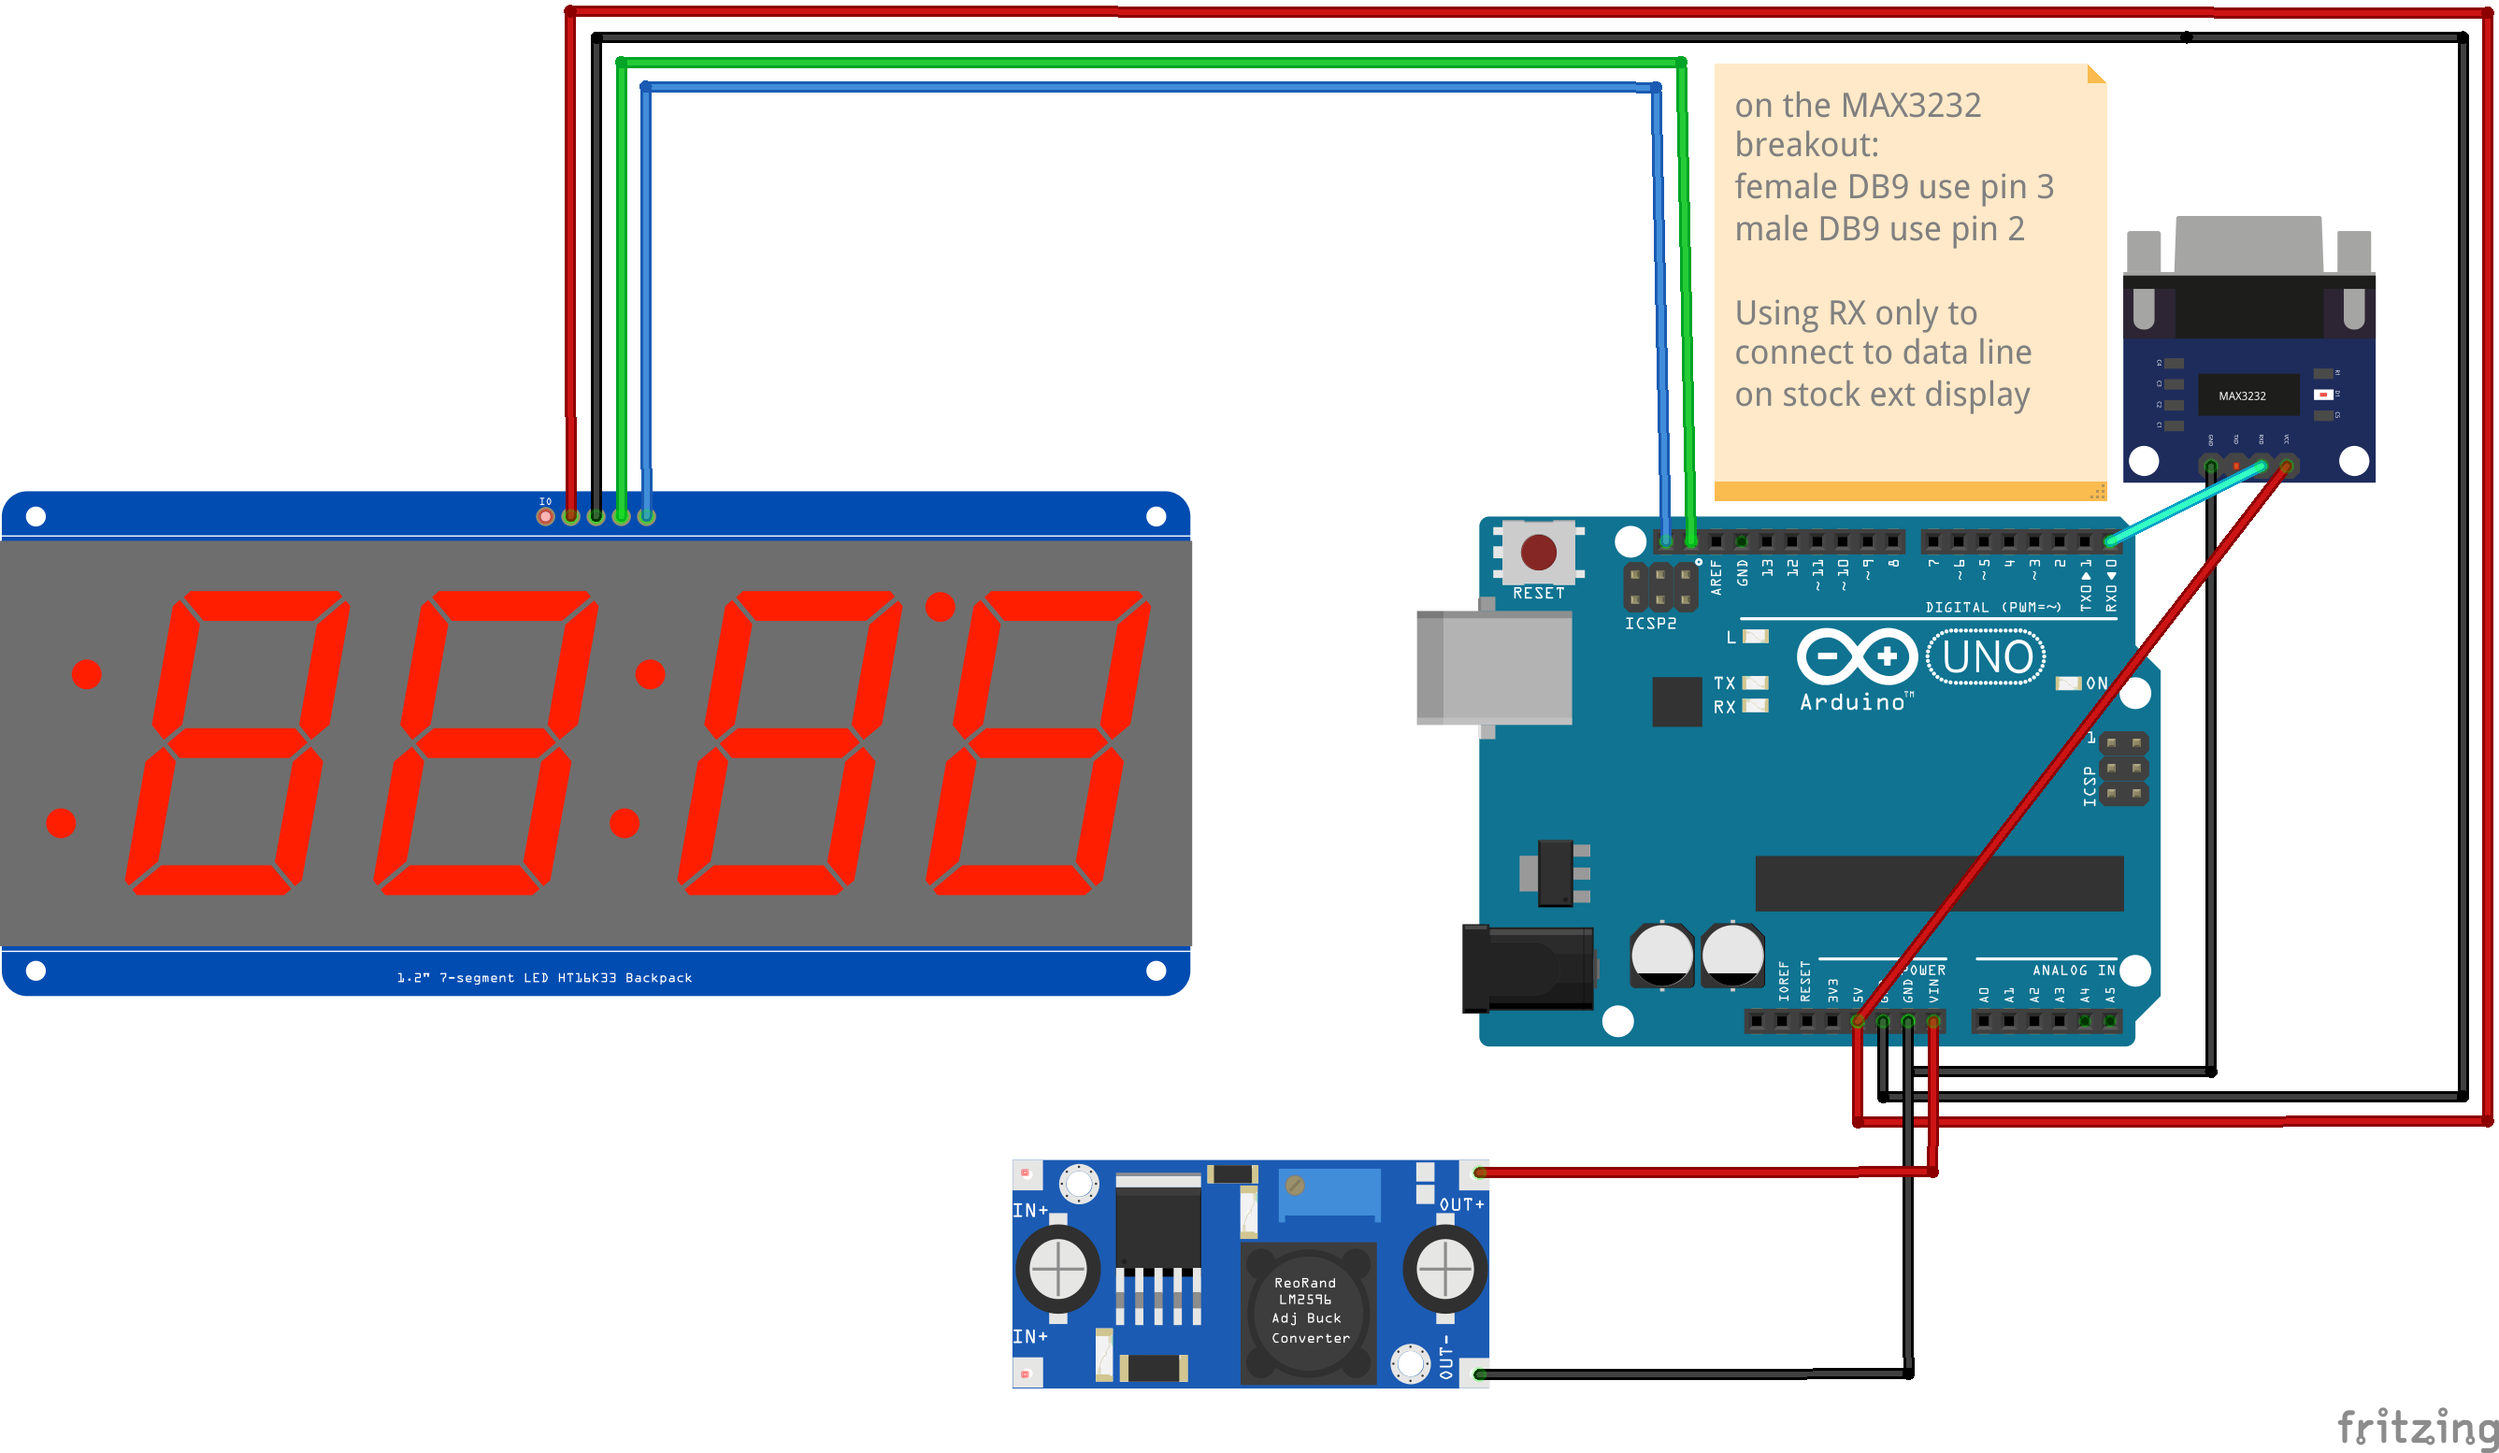
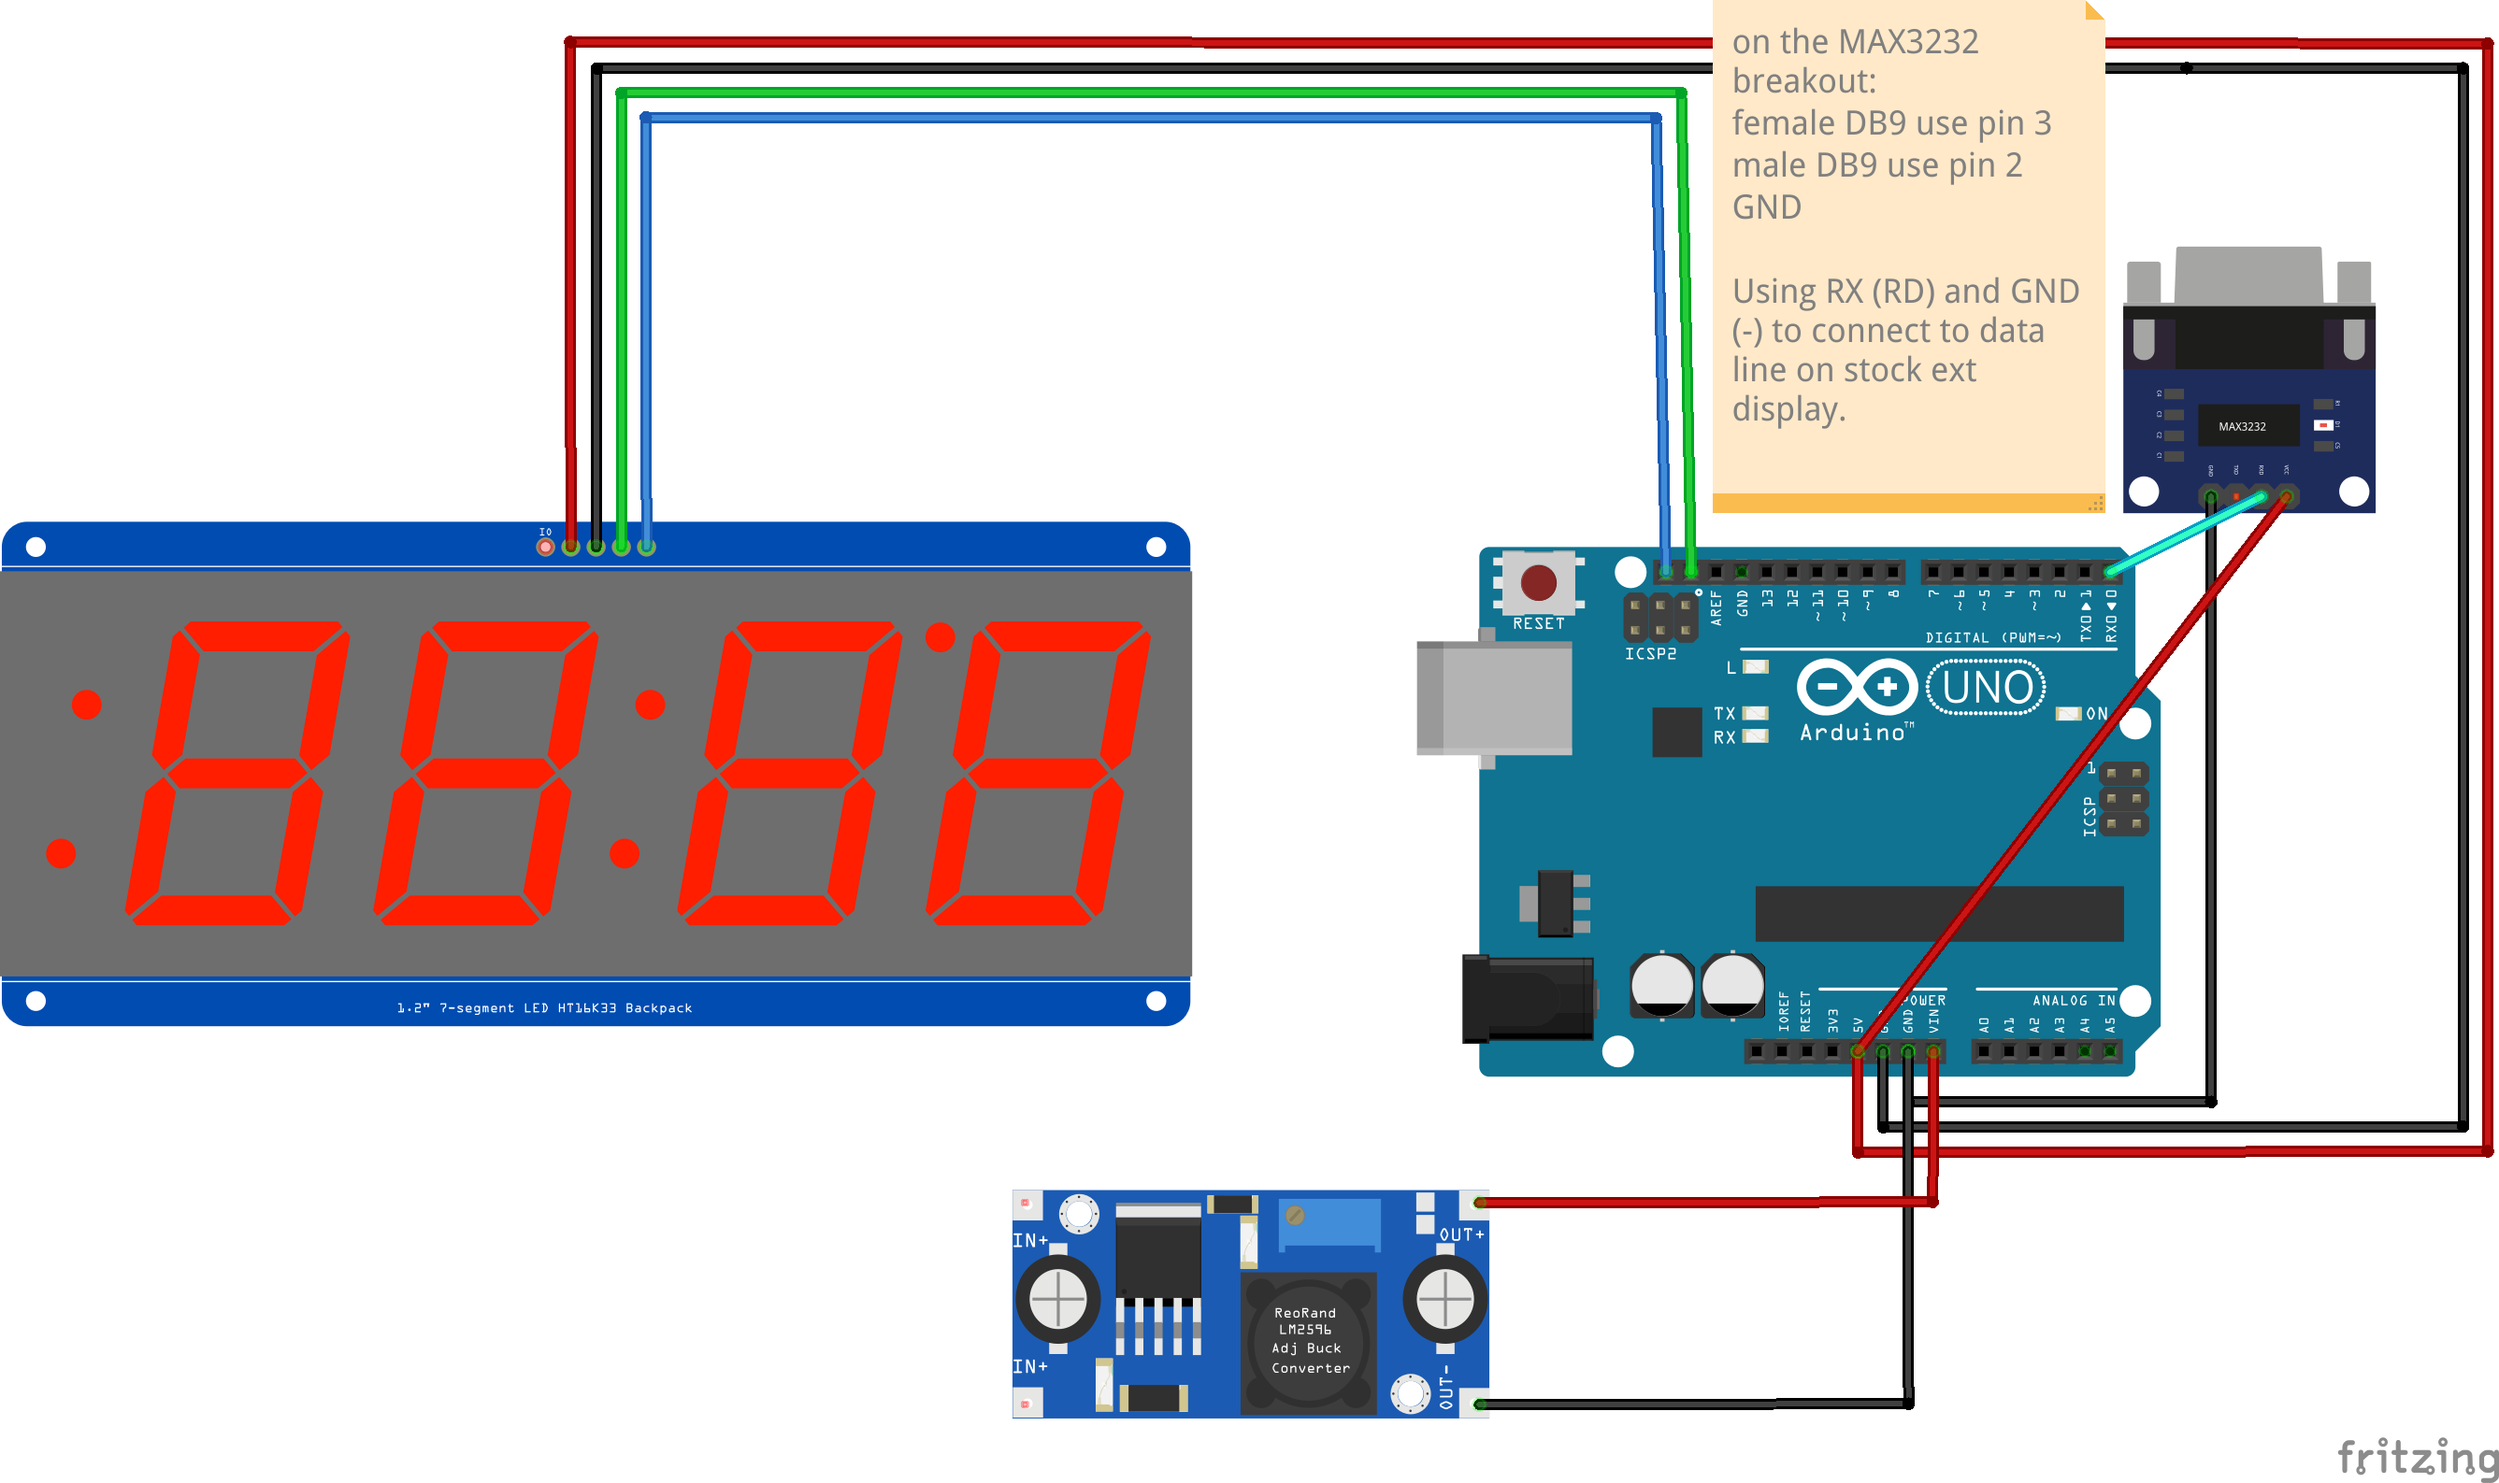
updated readme, notes in fritzing

diff --git a/README.md b/README.md
@@ -1,3 +1,22 @@
+Accuvolume has an external display for reading gallons on the outside, but
+sometimes it's nice to have a third display if the machine has more than
+one fill port.  And also the stock Panasonic display is pretty small to
+read from a distance.  This project decodes a little bit of the MODBUS data
+feeding the external display to provide an additional display using the
+Adafruit 1" 7 segment display backpack.  
+
+RS232 serial data is converted using any RS232 to TTL breakout board based
+on a chip like the MAX3232.  Only RX is used, and it's connected to the 
+Panasonic HMI, teed into the existing "RD" wire. The RS232 DB9 ground
+must be connected to the HMI "-" wire.
+
+I also bring over the 24V "+" wire and use it to power the arduino via a
+buck converter to 5v (and GND on the "-" wire).  There's plenty of power
+to run this display.  But you can always use any 12V source to power the 
+buck converter.
+
+![frizting diagram](accuvolume_remote_fritzing.png)
+
 The Accovolume head unit communicates with the in-cab and external Panasonic
 HMI screen using a form of MODBUS protocol over RS232.  The speed is 115200
 and it's 8 bits, 1 stop bit, ODD parity.  The messages are in plain text
@@ -8,6 +27,3 @@ like this:
 
 Always the same length, first 4 digits are hex, little endian, gallons. That 
 example message is 0x0012, which is 18 gallons.
-
-![frizting diagram](accuvolume_remote_fritzing.png)
-
